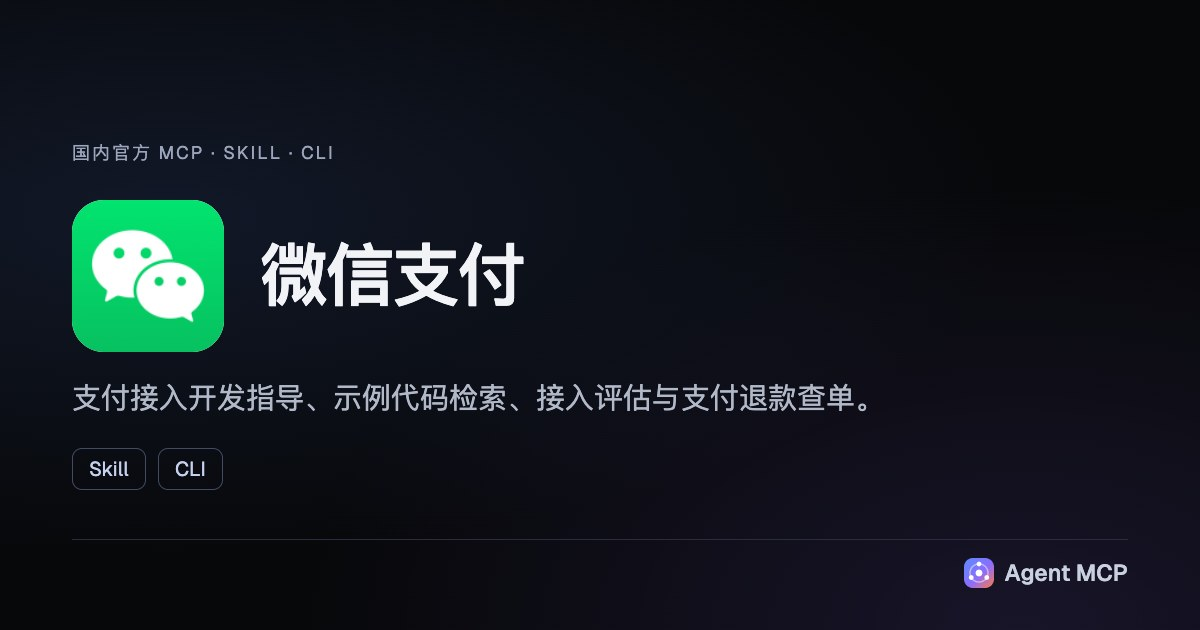
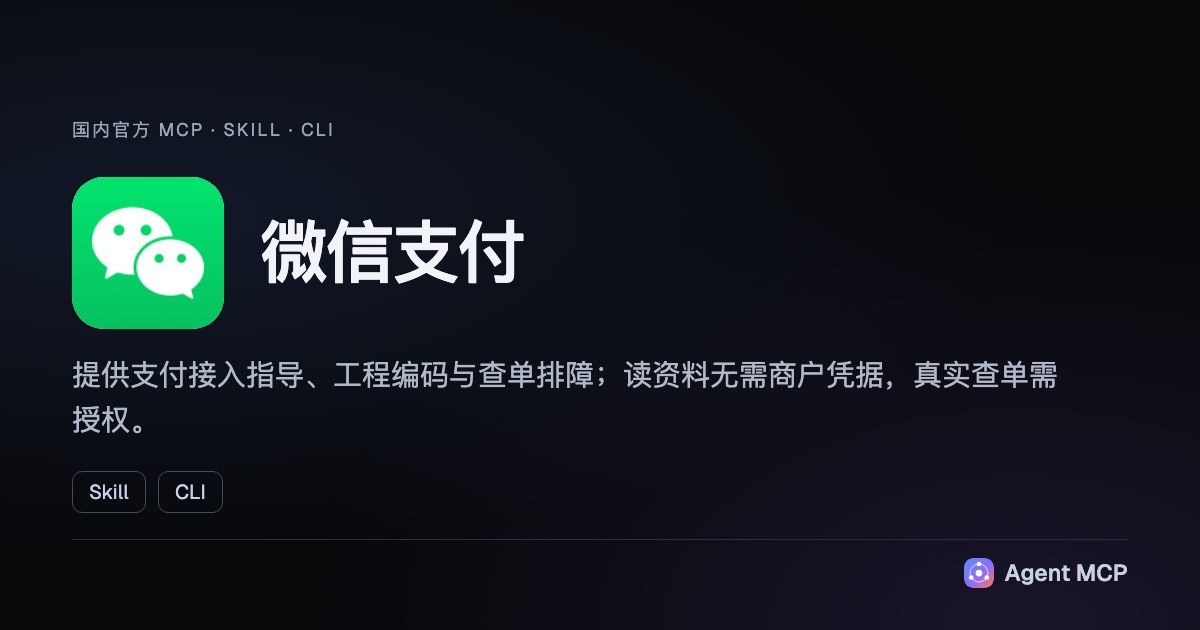
独立复核十三项资金相关能力及接入门槛 (#55)

diff --git a/README.en.md b/README.en.md
@@ -80,7 +80,7 @@ Test one lookup and report the result; skill installation does not establish a s
 | [Baidu Maps](https://lbs.baidu.com/docs/ai?title=mcpserver/base) · [Details](https://guanmo-ai.github.io/awesome-agent-mcp/s/baidu-map/) | Search places, geocode addresses, and plan routes. | MCP | 🟢 Read only | API key | ✅ Verified |
 | [Tencent Maps](https://lbs.qq.com/service/MCPServer/MCPServerGuide/overview) · [Details](https://guanmo-ai.github.io/awesome-agent-mcp/s/tencent-map/) | Search places, plan routes, and use location services. | MCP | 🟢 Read only | API key | ✅ Verified |
 | [DiDi](https://mcp.didichuxing.com/) · [Details](https://guanmo-ai.github.io/awesome-agent-mcp/s/didi/) | Request rides, get fare estimates, and look up trips. | MCP · Skill | 🔴 Financial actions | Account authorization, API key | ✅ Verified |
-| [Meituan](https://developer.meituan.com/ai-hub/mcp-list) · [Details](https://guanmo-ai.github.io/awesome-agent-mcp/s/meituan/) | Manage merchant orders, vouchers, products, and inventory, and query business data. | MCP · Skill · CLI | 🔴 Financial actions | Account authorization, Application required | ✅ Verified |
+| [Meituan](https://developer.meituan.com/ai-hub/mcp-list) · [Details](https://guanmo-ai.github.io/awesome-agent-mcp/s/meituan/) | Manage merchant orders, vouchers, products, and inventory, and query business data. | MCP · Skill · CLI | 🔴 Financial actions | Account authorization, API key, Application required | ✅ Verified |
 | [Taobao](https://tblifecdn.taobao.com/taobaopc/skills/taobao-native/SKILL.md) · [Details](https://guanmo-ai.github.io/awesome-agent-mcp/s/taobao/) | Search products and shop through the required desktop client. | MCP · Skill | 🔴 Financial actions | Desktop client, Account authorization | ✅ Verified |
 | [McDonald's China](https://open.mcd.cn/mcp/doc) · [Details](https://guanmo-ai.github.io/awesome-agent-mcp/s/mcdonalds-cn/) | Order food and find restaurants and offers. | MCP | 🔴 Financial actions | Account authorization, API key | ✅ Verified |
 | [Luckin Coffee](https://open.lkcoffee.com/docs) · [Details](https://guanmo-ai.github.io/awesome-agent-mcp/s/luckin/) | Order coffee and find stores. | MCP · Skill · CLI | 🔴 Financial actions | Account authorization, API key | ✅ Verified |
@@ -178,7 +178,7 @@ Test one lookup and report the result; skill installation does not establish a s
 | Service | Capabilities | Type | Permissions | Requirements | Status |
 | :-- | :-- | :-- | :-- | :-- | :-- |
 | [Alipay](https://aipay.alipay.com/merchant-guide) · [Details](https://guanmo-ai.github.io/awesome-agent-mcp/s/alipay/) | Authorize payments, process transactions, check payment status, and integrate payment collection. | Skill · CLI | 🔴 Financial actions | Account authorization | ✅ Verified |
-| [Weixin Pay](https://pay.weixin.qq.com/doc/v3/merchant/4019638116) · [Details](https://guanmo-ai.github.io/awesome-agent-mcp/s/wechat-pay/) | Read integration guidance and examples without merchant credentials; querying payments and refunds requires authorization. | Skill · CLI | 🟢 Read only | See details | ✅ Verified |
+| [Weixin Pay](https://pay.weixin.qq.com/doc/v3/merchant/4019638116) · [Details](https://guanmo-ai.github.io/awesome-agent-mcp/s/wechat-pay/) | Payment integration guidance, project code implementation and order-query troubleshooting; merchant credentials are needed for live queries. | Skill · CLI | 🟡 Write access | See details | ✅ Verified |
 | [UnionPay](https://open.unionpay.com/tjweb/solution/detail?solId=613) · [Details](https://guanmo-ai.github.io/awesome-agent-mcp/s/unionpay/) | Connect agents to UnionPay payment services through MCP. | MCP | 🔴 Financial actions | Account authorization, Application required | ✅ Verified |
 | [Tonghuashun iFinD](https://mcp.51ifind.com/) · [Details](https://guanmo-ai.github.io/awesome-agent-mcp/s/ifind/) | Query market prices, financial statements, announcements, macroeconomic indicators, and other financial data. | MCP · Skill | 🟢 Read only | Account authorization, API key, Membership or payment | ✅ Verified |
 | [Tonghuashun iWencai](https://search.10jqka.com.cn/skillhub) · [Details](https://guanmo-ai.github.io/awesome-agent-mcp/s/iwencai/) | Use official skills to query prices, announcements, research, and macro data, and screen by conditions. | Skill · CLI | 🟢 Read only | Account authorization, API key | ✅ Verified |

diff --git a/README.md b/README.md
@@ -78,7 +78,7 @@
 | [百度地图](https://lbs.baidu.com/docs/ai?title=mcpserver/base) · [独立页](https://guanmo-ai.github.io/awesome-agent-mcp/s/baidu-map/) | 地点检索、地理编码与路线规划。 | MCP | 🟢 只读查询 | 需 API Key | ✅ 已核验 |
 | [腾讯地图](https://lbs.qq.com/service/MCPServer/MCPServerGuide/overview) · [独立页](https://guanmo-ai.github.io/awesome-agent-mcp/s/tencent-map/) | 地点搜索、路线规划与位置服务。 | MCP | 🟢 只读查询 | 需 API Key | ✅ 已核验 |
 | [滴滴](https://mcp.didichuxing.com/) · [独立页](https://guanmo-ai.github.io/awesome-agent-mcp/s/didi/) | 叫车、估价与行程查询。 | MCP · Skill | 🔴 涉及资金 | 需授权账号、需 API Key | ✅ 已核验 |
-| [美团](https://developer.meituan.com/ai-hub/mcp-list) · [独立页](https://guanmo-ai.github.io/awesome-agent-mcp/s/meituan/) | 商家订单、团购核销、商品与库存管理及经营数据查询。 | MCP · Skill · CLI | 🔴 涉及资金 | 需授权账号、需申请开通 | ✅ 已核验 |
+| [美团](https://developer.meituan.com/ai-hub/mcp-list) · [独立页](https://guanmo-ai.github.io/awesome-agent-mcp/s/meituan/) | 商家订单、团购核销、商品与库存管理及经营数据查询。 | MCP · Skill · CLI | 🔴 涉及资金 | 需授权账号、需 API Key、需申请开通 | ✅ 已核验 |
 | [淘宝](https://tblifecdn.taobao.com/taobaopc/skills/taobao-native/SKILL.md) · [独立页](https://guanmo-ai.github.io/awesome-agent-mcp/s/taobao/) | 商品搜索与购物，需安装桌面客户端。 | MCP · Skill | 🔴 涉及资金 | 需桌面客户端、需授权账号 | ✅ 已核验 |
 | [麦当劳中国](https://open.mcd.cn/mcp/doc) · [独立页](https://guanmo-ai.github.io/awesome-agent-mcp/s/mcdonalds-cn/) | 点餐、门店与优惠查询。 | MCP | 🔴 涉及资金 | 需授权账号、需 API Key | ✅ 已核验 |
 | [瑞幸](https://open.lkcoffee.com/docs) · [独立页](https://guanmo-ai.github.io/awesome-agent-mcp/s/luckin/) | 咖啡点单与门店查询。 | MCP · Skill · CLI | 🔴 涉及资金 | 需授权账号、需 API Key | ✅ 已核验 |
@@ -176,7 +176,7 @@
 | 服务 | 能做什么 | 类型 | 权限 | 门槛 | 状态 |
 | :-- | :-- | :-- | :-- | :-- | :-- |
 | [支付宝](https://aipay.alipay.com/merchant-guide) · [独立页](https://guanmo-ai.github.io/awesome-agent-mcp/s/alipay/) | 支付授权、交易支付与状态查询，辅助应用收款接入。 | Skill · CLI | 🔴 涉及资金 | 需授权账号 | ✅ 已核验 |
-| [微信支付](https://pay.weixin.qq.com/doc/v3/merchant/4019638116) · [独立页](https://guanmo-ai.github.io/awesome-agent-mcp/s/wechat-pay/) | 提供支付接入指导、示例及查单工具；读资料无需商户凭据，实际查单需授权。 | Skill · CLI | 🟢 只读查询 | 见独立页说明 | ✅ 已核验 |
+| [微信支付](https://pay.weixin.qq.com/doc/v3/merchant/4019638116) · [独立页](https://guanmo-ai.github.io/awesome-agent-mcp/s/wechat-pay/) | 提供支付接入指导、工程编码与查单排障；读资料无需商户凭据，真实查单需授权。 | Skill · CLI | 🟡 可执行操作 | 见独立页说明 | ✅ 已核验 |
 | [银联](https://open.unionpay.com/tjweb/solution/detail?solId=613) · [独立页](https://guanmo-ai.github.io/awesome-agent-mcp/s/unionpay/) | 让智能体通过 MCP 接入银联支付服务。 | MCP | 🔴 涉及资金 | 需授权账号、需申请开通 | ✅ 已核验 |
 | [同花顺 iFinD](https://mcp.51ifind.com/) · [独立页](https://guanmo-ai.github.io/awesome-agent-mcp/s/ifind/) | 查询行情、财务、公告、宏观等金融数据。 | MCP · Skill | 🟢 只读查询 | 需授权账号、需 API Key、需会员或付费 | ✅ 已核验 |
 | [同花顺问财](https://search.10jqka.com.cn/skillhub) · [独立页](https://guanmo-ai.github.io/awesome-agent-mcp/s/iwencai/) | 通过官方技能查询行情、公告、研报和宏观数据，进行条件筛选。 | Skill · CLI | 🟢 只读查询 | 需授权账号、需 API Key | ✅ 已核验 |
